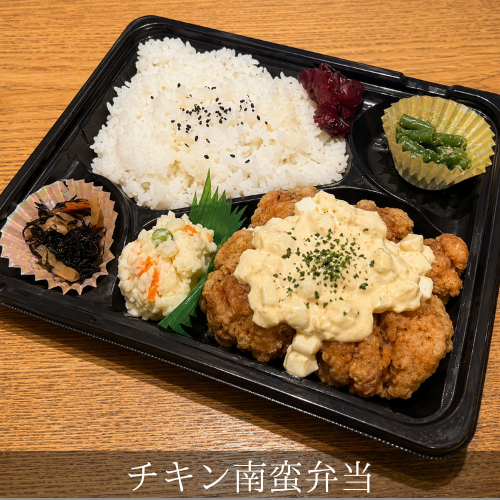
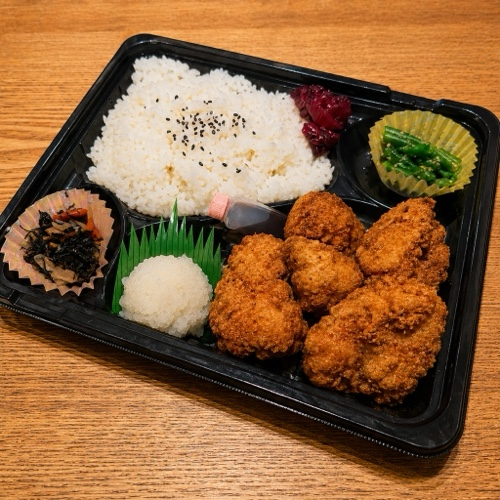
Replace menu book page 06 image and set price to ¥750.
Update the chicken katsu oroshi ponzu photo and cart mapping while keeping the existing price badge styling.

diff --git a/lib/menuBookPages.ts b/lib/menuBookPages.ts
@@ -64,11 +64,11 @@ export const MENU_BOOK_PAGES: MenuBookPage[] = [
   {
     pageNumber: 6,
     src: "/menu/06.jpg",
-    alt: "チキン南蛮弁当",
+    alt: "チキンカツおろしポン酢弁当",
     orderable: true,
-    id: "nanban_bento",
-    name: "チキン南蛮弁当",
-    price: 850,
+    id: "chicken_katsu_oroshi_ponzu_bento",
+    name: "チキンカツおろしポン酢弁当",
+    price: 750,
     itemType: "bento",
   },
   {